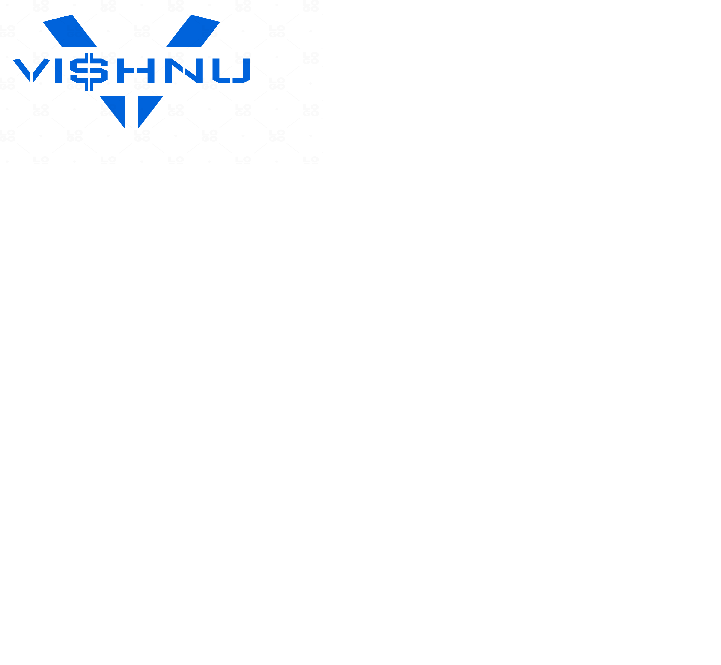
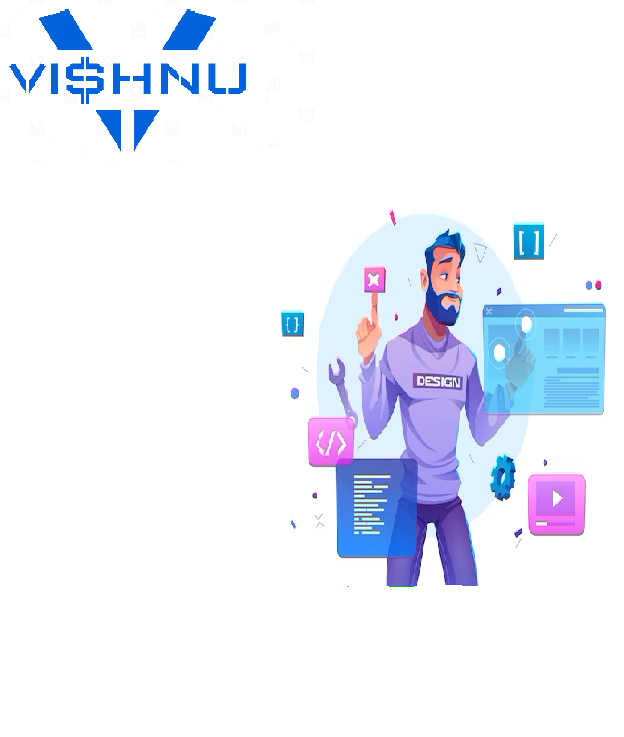
push all

Changed region(s): [[0.4263, 0.2707, 0.9744, 0.812], [0.0304, 0.0, 0.3958, 0.2105]]

diff --git a/style.css b/style.css
@@ -4,7 +4,7 @@
     padding: 0;
 }
 .main{
-        background-image: linear-gradient(rgb(0,0,0,0.5),rgb(0,0,0,0.5),rgb(0,0,0,0.5),rgb(0,0,0,0.5)),  url(vishnu\ background.png);
+        background-image:  url(vishnu\ background.png);
         background-color: blue;
        background-repeat: no-repeat ;
        background-size:cover;
@@ -62,7 +62,13 @@ button{
     background-color:black;
 }
    
-   
+.design{
+    height: 288px;
+    width: 41px;
+    float: right;
+    margin-top: -418px;
+    margin-right: 644px;
+}  
 
 @media screen and (max-width: 600px)
 {
@@ -128,6 +134,6 @@ button{
         background-color:black;
     }
     
-       
-       
+    
+    
 }

diff --git a/index.html b/index.html
@@ -52,10 +52,7 @@
 </a>
 <br>
 <br>
-
-
-</div> </div>
-
-
-    </body>
+</div>
+ </div>
+</body>
 </html>
